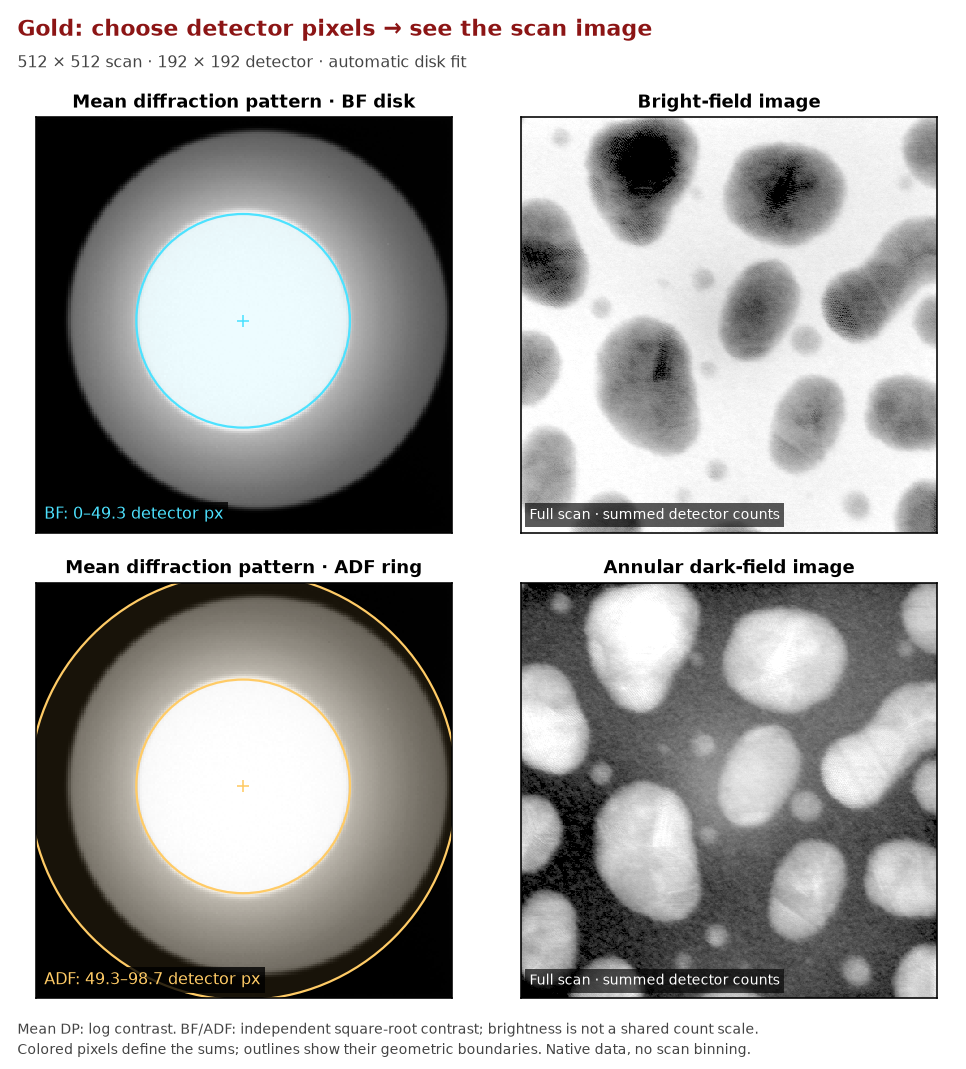
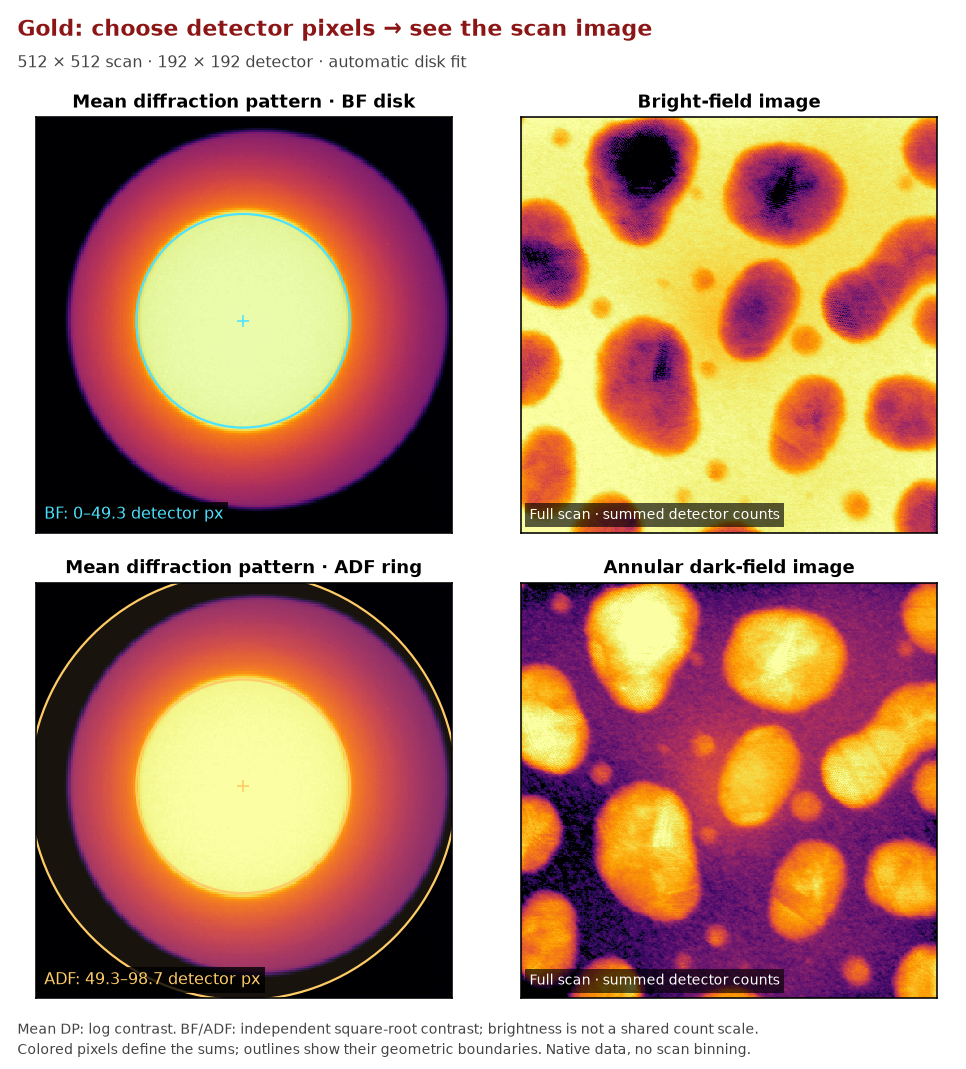
docs: set inferno once for README plotting examples

diff --git a/README.md b/README.md
@@ -68,12 +68,20 @@ GPU tensors for selected regions. The data are not bundled here.
 ### Load and inspect
 
 ```python
+from functools import partial
+
 from quantem.gpu import io, detector
 from quantem.core.visualization import show_2d
+
+show_2d = partial(show_2d, cmap="inferno")  # set once for this notebook
 
 data = io.load("gold_master.h5")
 show_2d(data[10, 12], norm="power_sqrt")  # pattern at scan position (10, 12)
 ```
+
+All later `show_2d` calls use inferno. Override one plot with `cmap="gray"`
+when needed. This sets a local display default; it does not change the data
+or QuantEM's package defaults.
 
 Indexing returns an ordinary PyTorch tensor on the selected GPU;
 `show_2d` displays it directly. Axis calibration is available on `data`;
@@ -381,11 +389,11 @@ data.close()
 
 ## Reconstruct phase with SSB
 
-Supply your microscope calibration, find the aberrations once, and reuse them:
+Using the `show_2d` setup above, supply your microscope calibration, find the
+aberrations once, and reuse them:
 
 ```python
 from quantem.gpu import SSB
-from quantem.core.visualization import show_2d
 
 ssb = SSB.open(
     "acquisition.qem",
